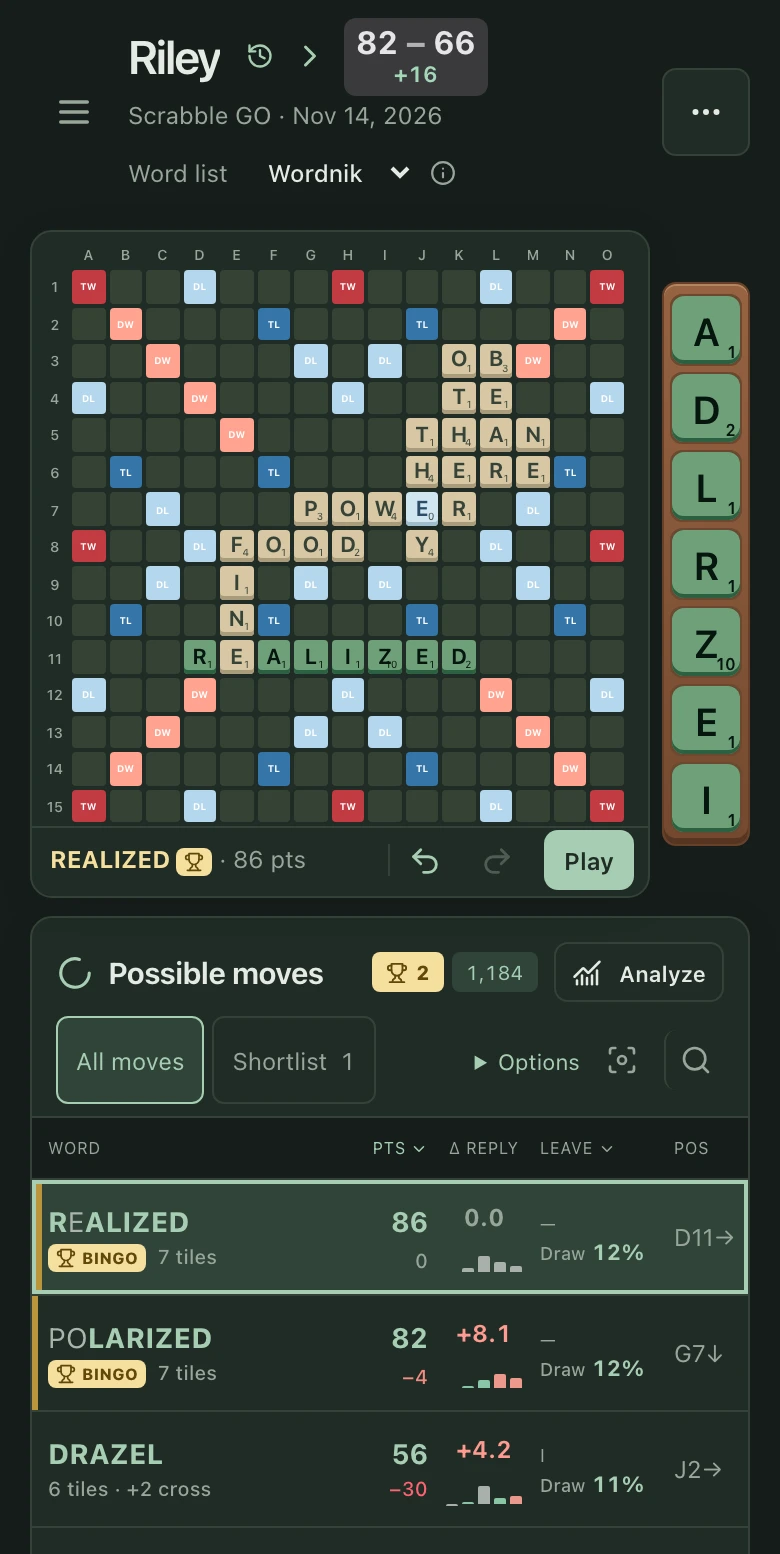
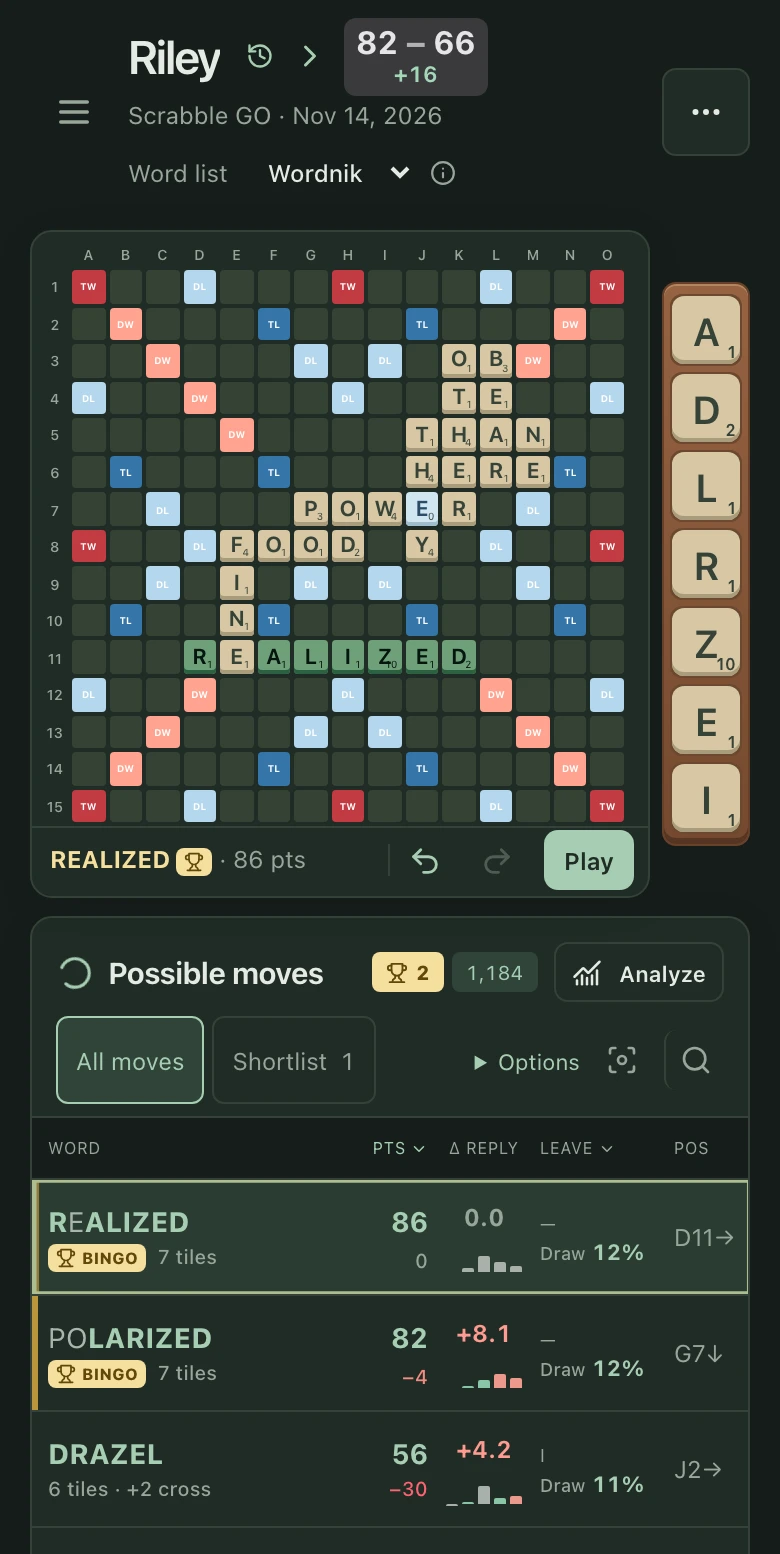
Add workspace settings for move previews and tile animation

Changed region(s): [[0.8615, 0.1853, 0.9538, 0.556], [0.0308, 0.7413, 0.0615, 0.834], [0.9538, 0.7722, 0.9846, 0.834]]

diff --git a/src/App.tsx b/src/App.tsx
@@ -26,6 +26,7 @@ import {
   Redo2,
   Save,
   Search,
+  Settings,
   Smartphone,
   Sun,
   Undo2,
@@ -60,6 +61,9 @@ import Modal from "./components/Modal";
 import MoveWord from "./components/MoveWord";
 import WordLists from "./components/WordLists";
 import UiGuide from "./components/UiGuide";
+import WorkspaceSettings, {
+  useWorkspacePreferences,
+} from "./components/WorkspaceSettings";
 import Results from "./components/Results";
 import GamePicker from "./components/GamePicker";
 import {
@@ -112,6 +116,7 @@ type Dialog =
   | "board-help"
   | "help"
   | "ui-guide"
+  | "workspace-settings"
   | "rename"
   | "delete"
   | "end-game"
@@ -225,6 +230,7 @@ function Tilemaxx() {
     [toast, setToast] = useState(""),
     [error, setError] = useState("");
   const [theme, setTheme] = useState(saved("tilewise:theme", "system"));
+  const [preferences, setPreferences] = useWorkspacePreferences();
   const [movePreview, setPreview] = useState<{
     move: Move;
     analysis: boolean;
@@ -511,12 +517,9 @@ function Tilemaxx() {
     if (!game || activeFlight) return;
     try {
       const next = playTrackedMove(game, move, replyAnalysis.bagSize);
-      const motion = prepareTileFlight(
-        game,
-        move,
-        rackPanel.current,
-        boardPanel.current,
-      );
+      const motion = preferences.animatePlayedTiles
+        ? prepareTileFlight(game, move, rackPanel.current, boardPanel.current)
+        : undefined;
       solver.rememberResults();
       setFlight(
         motion && {
@@ -790,6 +793,7 @@ function Tilemaxx() {
   return (
     <div
       className={`app-shell${compactGame ? " compact-game" : ""}${phoneLayout ? " phone-layout" : ""}`}
+      data-static-previews={preferences.pulseMovePreviews ? undefined : true}
       data-premium-palette={premiumPalette(
         workspace === "games" ? game?.platform : undefined,
       )}
@@ -848,6 +852,14 @@ function Tilemaxx() {
           Use on another device
         </button>
         <div className="sidebar-bottom">
+          <button
+            className="nav-link workspace-settings-link"
+            type="button"
+            onClick={() => openDialog("workspace-settings")}
+          >
+            <Settings size={17} aria-hidden="true" />
+            Workspace settings
+          </button>
           {collapsibleBoardHelp ? (
             saveAndTheme
           ) : (
@@ -1179,7 +1191,7 @@ function Tilemaxx() {
                   exchangeAdvice={solver.exchangeAdvice}
                   exchangeBag={replyAnalysis.bagSize}
                   exchangeBagConfirmed={replyAnalysis.bagConfirmed}
-                  preview={preview}
+                  preview={preferences.highlightRackPreview ? preview : null}
                   flyingRack={activeFlight}
                 />
                 <OpponentRack
@@ -1690,6 +1702,13 @@ function Tilemaxx() {
       )}
       {dialog === "ui-guide" && (
         <UiGuide phoneLayout={phoneLayout} onClose={() => setDialog(null)} />
+      )}
+      {dialog === "workspace-settings" && (
+        <WorkspaceSettings
+          preferences={preferences}
+          onChange={setPreferences}
+          onClose={() => setDialog(null)}
+        />
       )}
       {dialog === "help" && (
         <Modal

diff --git a/tests/ui/workflows.test.tsx b/tests/ui/workflows.test.tsx
@@ -2973,6 +2973,47 @@ test("hovering a move highlights the first available copy of each rack tile it u
   expect(highlighted()).toEqual([1, 2, 3]);
 });
 
+test("workspace settings keep board previews visible with plain rack tiles and persist across reloads", async () => {
+  const user = userEvent.setup();
+  const app = render(<App />);
+  await screen.findByRole("heading", { name: /First game/ });
+  const openSettings = () =>
+    user.click(
+      within(screen.getByRole("complementary", { name: "Workspace menu" }))
+        .getByRole("button", { name: "Workspace settings" }),
+    );
+  const dialog = () => within(screen.getByRole("dialog", { name: "Workspace settings" }));
+  const option = (name: string) =>
+    dialog().getByRole<HTMLInputElement>("checkbox", { name });
+  const rackHighlight = "Highlight rack tiles on move preview";
+  const pulse = "Pulse move previews";
+  const playAnimation = "Animate tiles when playing a move";
+
+  await openSettings();
+  for (const name of [rackHighlight, pulse, playAnimation]) {
+    expect(option(name).checked).toBe(true);
+    await user.click(option(name));
+  }
+  await user.click(dialog().getByRole("button", { name: "Close dialog" }));
+  await typeRack(user, "CAT");
+  await user.click(screen.getByRole("button", { name: "Find moves" }));
+  const move = (await screen.findAllByRole("button", { name: /^CAT, / }))[0];
+  await user.hover(move);
+  expect(document.querySelectorAll(".board-panel .ghost")).toHaveLength(3);
+  expect(document.querySelector(".rack-panel .move-preview")).toBeNull();
+  expect(move.closest("[data-static-previews]")).toBeTruthy();
+  await user.click(move);
+  await waitFor(() => expect(current().board.filter(Boolean)).toHaveLength(3));
+
+  app.unmount();
+  render(<App />);
+  await screen.findByRole("heading", { name: /First game/ });
+  await openSettings();
+  for (const name of [rackHighlight, pulse, playAnimation]) {
+    expect(option(name).checked).toBe(false);
+  }
+});
+
 test("typing in the game picker filters active games by opponent name", async () => {
   vi.stubGlobal("matchMedia", (query: string) => ({
     matches: query === "(min-width: 1000px)",

diff --git a/src/components/WorkspaceSettings.tsx b/src/components/WorkspaceSettings.tsx
@@ -1,0 +1,72 @@
+import { useEffect, useState } from "react";
+import Modal from "./Modal";
+
+const storageKey = "tilemaxx:workspace-preferences";
+const defaults = {
+  highlightRackPreview: true,
+  pulseMovePreviews: true,
+  animatePlayedTiles: true,
+};
+type Preferences = typeof defaults;
+
+const options = [
+  ["highlightRackPreview", "Highlight rack tiles on move preview"],
+  ["pulseMovePreviews", "Pulse move previews"],
+  ["animatePlayedTiles", "Animate tiles when playing a move"],
+] as const satisfies ReadonlyArray<readonly [keyof Preferences, string]>;
+
+function readPreferences(): Preferences {
+  try {
+    const saved = JSON.parse(localStorage.getItem(storageKey) ?? "null");
+    return {
+      highlightRackPreview: saved?.highlightRackPreview !== false,
+      pulseMovePreviews: saved?.pulseMovePreviews !== false,
+      animatePlayedTiles: saved?.animatePlayedTiles !== false,
+    };
+  } catch {
+    return defaults;
+  }
+}
+
+export function useWorkspacePreferences() {
+  const [preferences, setPreferences] = useState(readPreferences);
+  useEffect(() => {
+    try {
+      localStorage.setItem(storageKey, JSON.stringify(preferences));
+    } catch {}
+  }, [preferences]);
+  return [preferences, setPreferences] as const;
+}
+
+export default function WorkspaceSettings({
+  preferences,
+  onChange,
+  onClose,
+}: {
+  preferences: Preferences;
+  onChange: (preferences: Preferences) => void;
+  onClose: () => void;
+}) {
+  return (
+    <Modal
+      title="Workspace settings"
+      subtitle="Applies to all games in this browser."
+      onClose={onClose}
+    >
+      <div className="workspace-preference-list">
+        {options.map(([key, label]) => (
+          <label key={key}>
+            <input
+              type="checkbox"
+              checked={preferences[key]}
+              onChange={(event) =>
+                onChange({ ...preferences, [key]: event.target.checked })
+              }
+            />
+            {label}
+          </label>
+        ))}
+      </div>
+    </Modal>
+  );
+}

diff --git a/src/style.css b/src/style.css
@@ -628,6 +628,12 @@ label + label {
   margin-top: auto;
   padding-top: 24px;
 }
+.workspace-settings-link {
+  margin-bottom: 8px;
+}
+.phone-layout .workspace-settings-link {
+  min-height: 44px;
+}
 .local-note {
   font-size: 9px;
   display: flex;
@@ -2738,6 +2744,26 @@ label + label {
 .checkbox input {
   accent-color: var(--primary);
 }
+.workspace-preference-list {
+  display: grid;
+  margin-top: 8px;
+}
+.workspace-preference-list label {
+  display: flex;
+  flex-direction: row;
+  align-items: center;
+  gap: 10px;
+  min-height: 44px;
+  margin: 0;
+  padding: 6px 0;
+}
+.workspace-preference-list label + label {
+  border-top: 1px solid var(--line);
+}
+.workspace-preference-list input {
+  flex: none;
+  accent-color: var(--primary);
+}
 .editor-controls > .text-button {
   margin-top: 12px;
 }
@@ -3867,8 +3893,10 @@ label + label {
 }
 /* The main board and rack inherit one pulse. Other boards run their own. */
 @media (prefers-reduced-motion: no-preference) {
-  .workspace-grid:has(> .board-column > .board-panel .has-move-preview),
-  .board-grid.has-move-preview:not(.workspace-grid > .board-column > .board-panel *) {
+  :is(
+    .workspace-grid:has(> .board-column > .board-panel .has-move-preview),
+    .board-grid.has-move-preview:not(.workspace-grid > .board-column > .board-panel *)
+  ):not(.app-shell[data-static-previews] *) {
     animation: preview-tile-pulse 2s ease-in-out infinite;
   }
 }

diff --git a/AGENTS.md b/AGENTS.md
@@ -22,3 +22,10 @@
 - Tilemaxx is self-hosted on a trusted local network. The NAS update script fast-forwards the checkout and rebuilds with Docker Compose. Keep `compose.yaml` local and preserve the bind-mounted `data/` directory across updates. See [README.md](README.md) for setup and recovery.
 - Never connect to another machine with SSH or execute commands on another machine unless the user has given explicit prior approval for that specific remote access. Deployment or validation requirements do not imply SSH approval.
 - Keep imported word lists and saved games in the ignored `data/` directory. Do not put them in Git, the Docker build context, or a public deployment.
+
+## Updating the README
+
+1. Keep the opening to a short hook, one concrete description, and the quick links. Put walkthroughs and setup details below the main screenshot.
+2. Start Tilemaxx with a temporary `DATA_DIR` and use a fictional game with a bundled word list. Switch the app to **Dark** before taking any README screenshot.
+3. In **Workspace settings** at the bottom of the sidebar, turn off **Highlight rack tiles on move preview** and **Pulse move previews**. Find moves and preview a play so it still appears on the board.
+4. Replace the WebP files in `docs/screenshots/` with real captures of the desktop workspace, phone preview, and reply heatmap. Use the same sample position for all three, check their crops at README width, and update the alt text to match.

diff --git a/docs/ui-guide.md b/docs/ui-guide.md
@@ -5,6 +5,7 @@
 | Name | Where to find it |
 | --- | --- |
 | **Workspace menu** | The desktop sidebar or the menu button on a phone. It contains the profile picker, My games, Archived games, Board studio, Word lists, UI guide, and theme controls. |
+| **Workspace settings** | At the bottom of the Workspace menu. Control rack highlighting, preview pulsing, and the animation when playing a move. These choices apply to all games in the current browser. |
 | **Game header** | The game name, tracked score, and Game options at the top. Open the name to use the **Game picker** and its opponent filter. |
 | **Game options** | The menu beside the game name. It includes game details, duplication, **End game**, and archiving. On phones it also holds Board help, Import screenshot, and Move history. |
 | **End game** | Record a final score or mark the game finished without a score. **Deduct unplayed tiles** is available when the bag is empty and the rules call for rack deductions. Use **Undo** to resume. |
